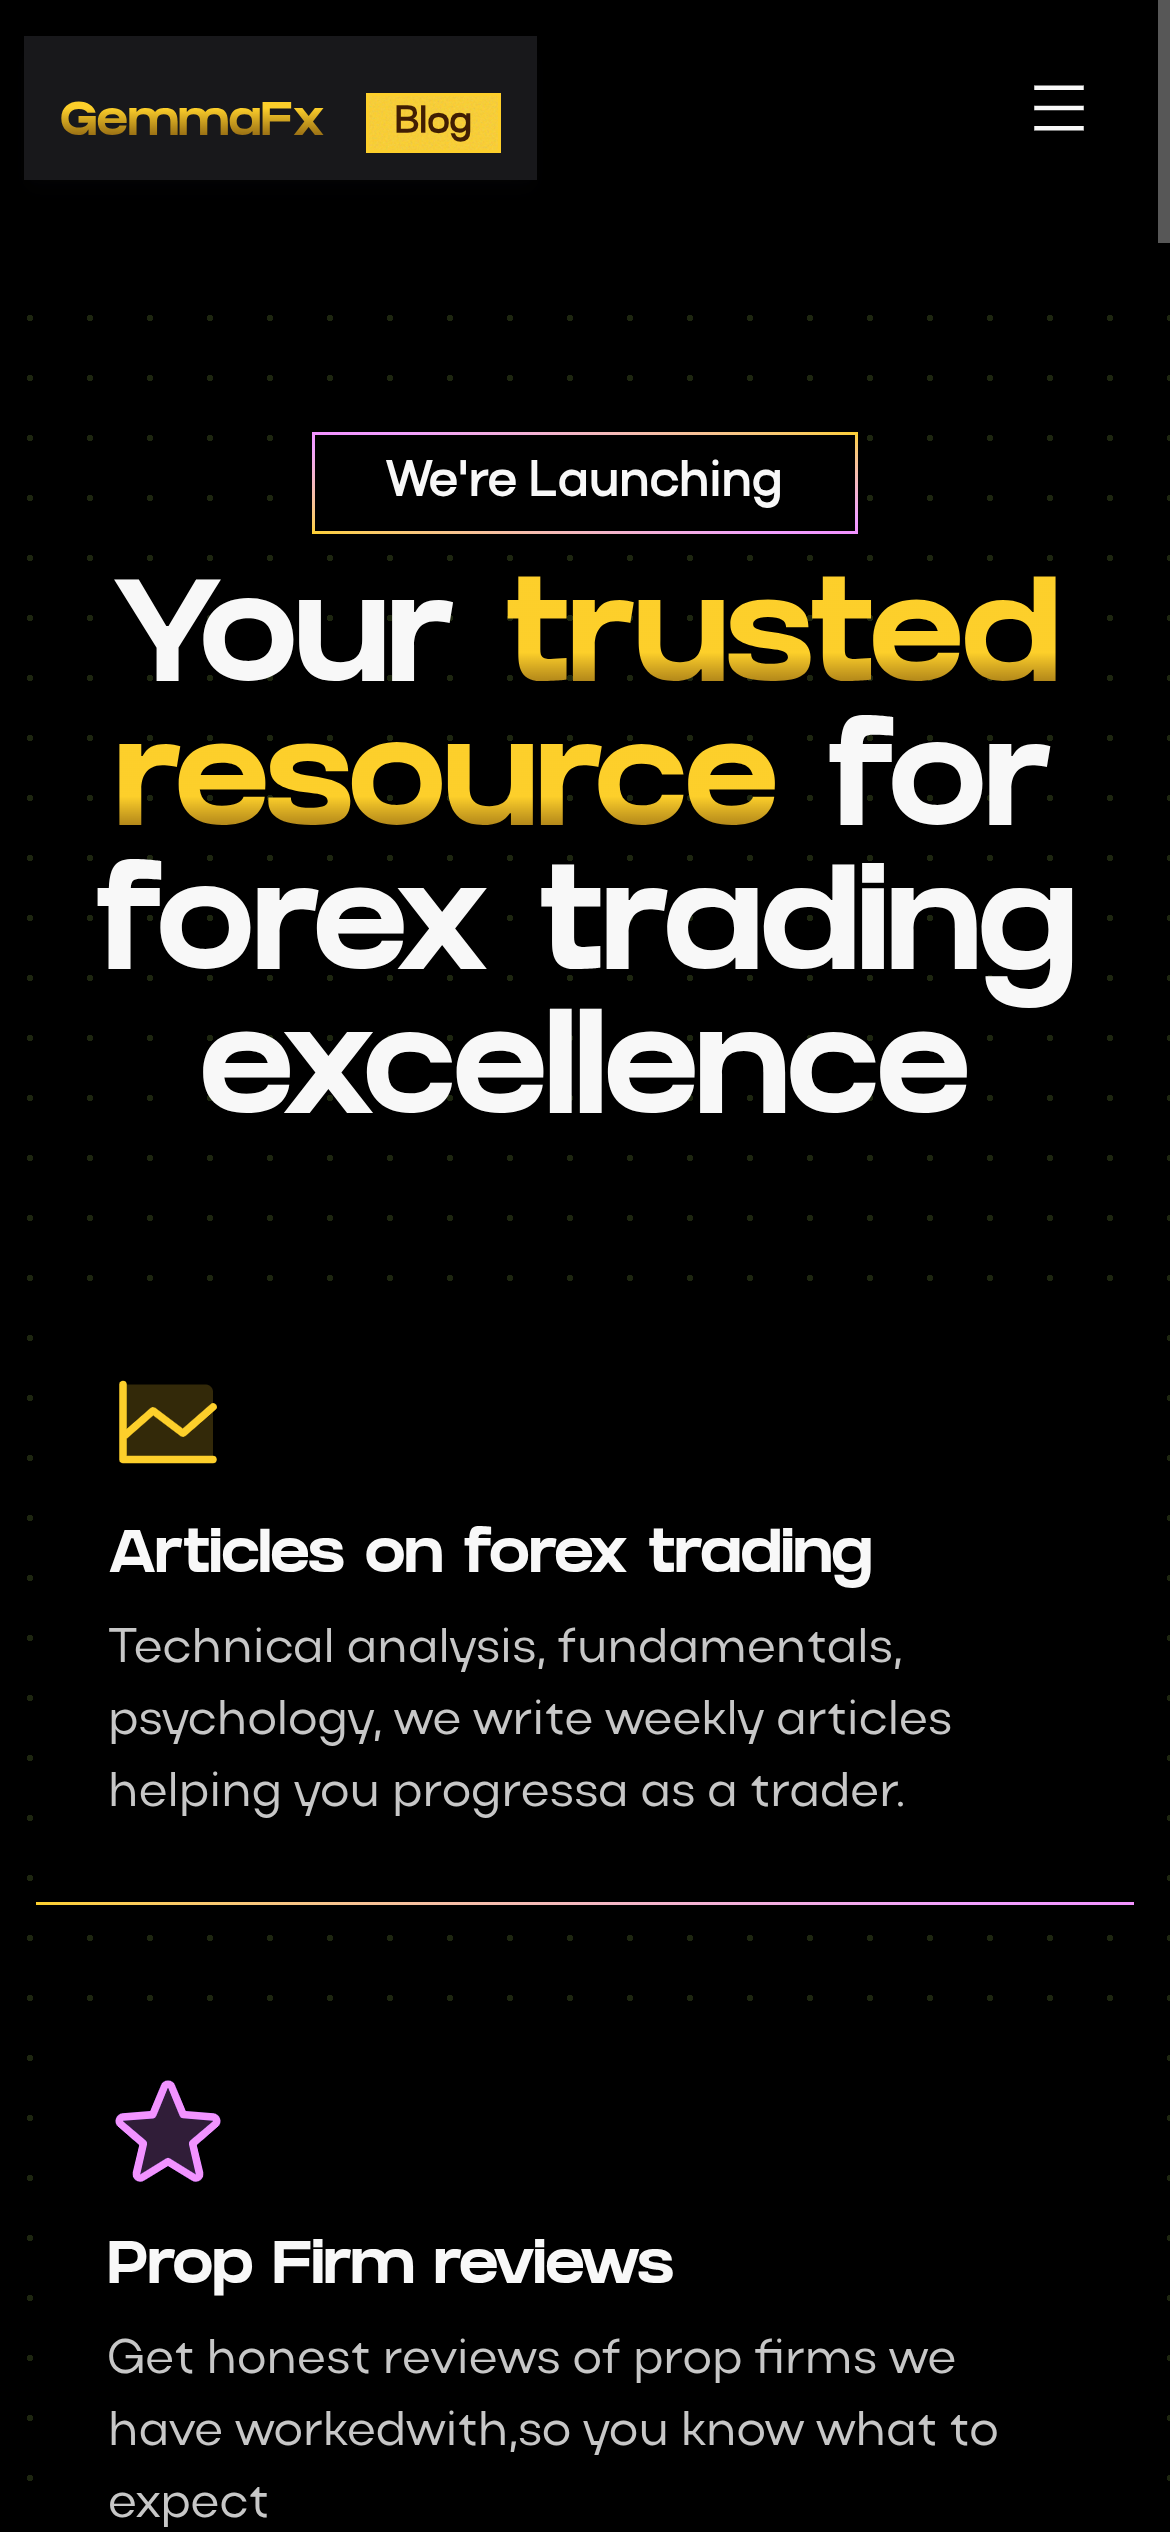
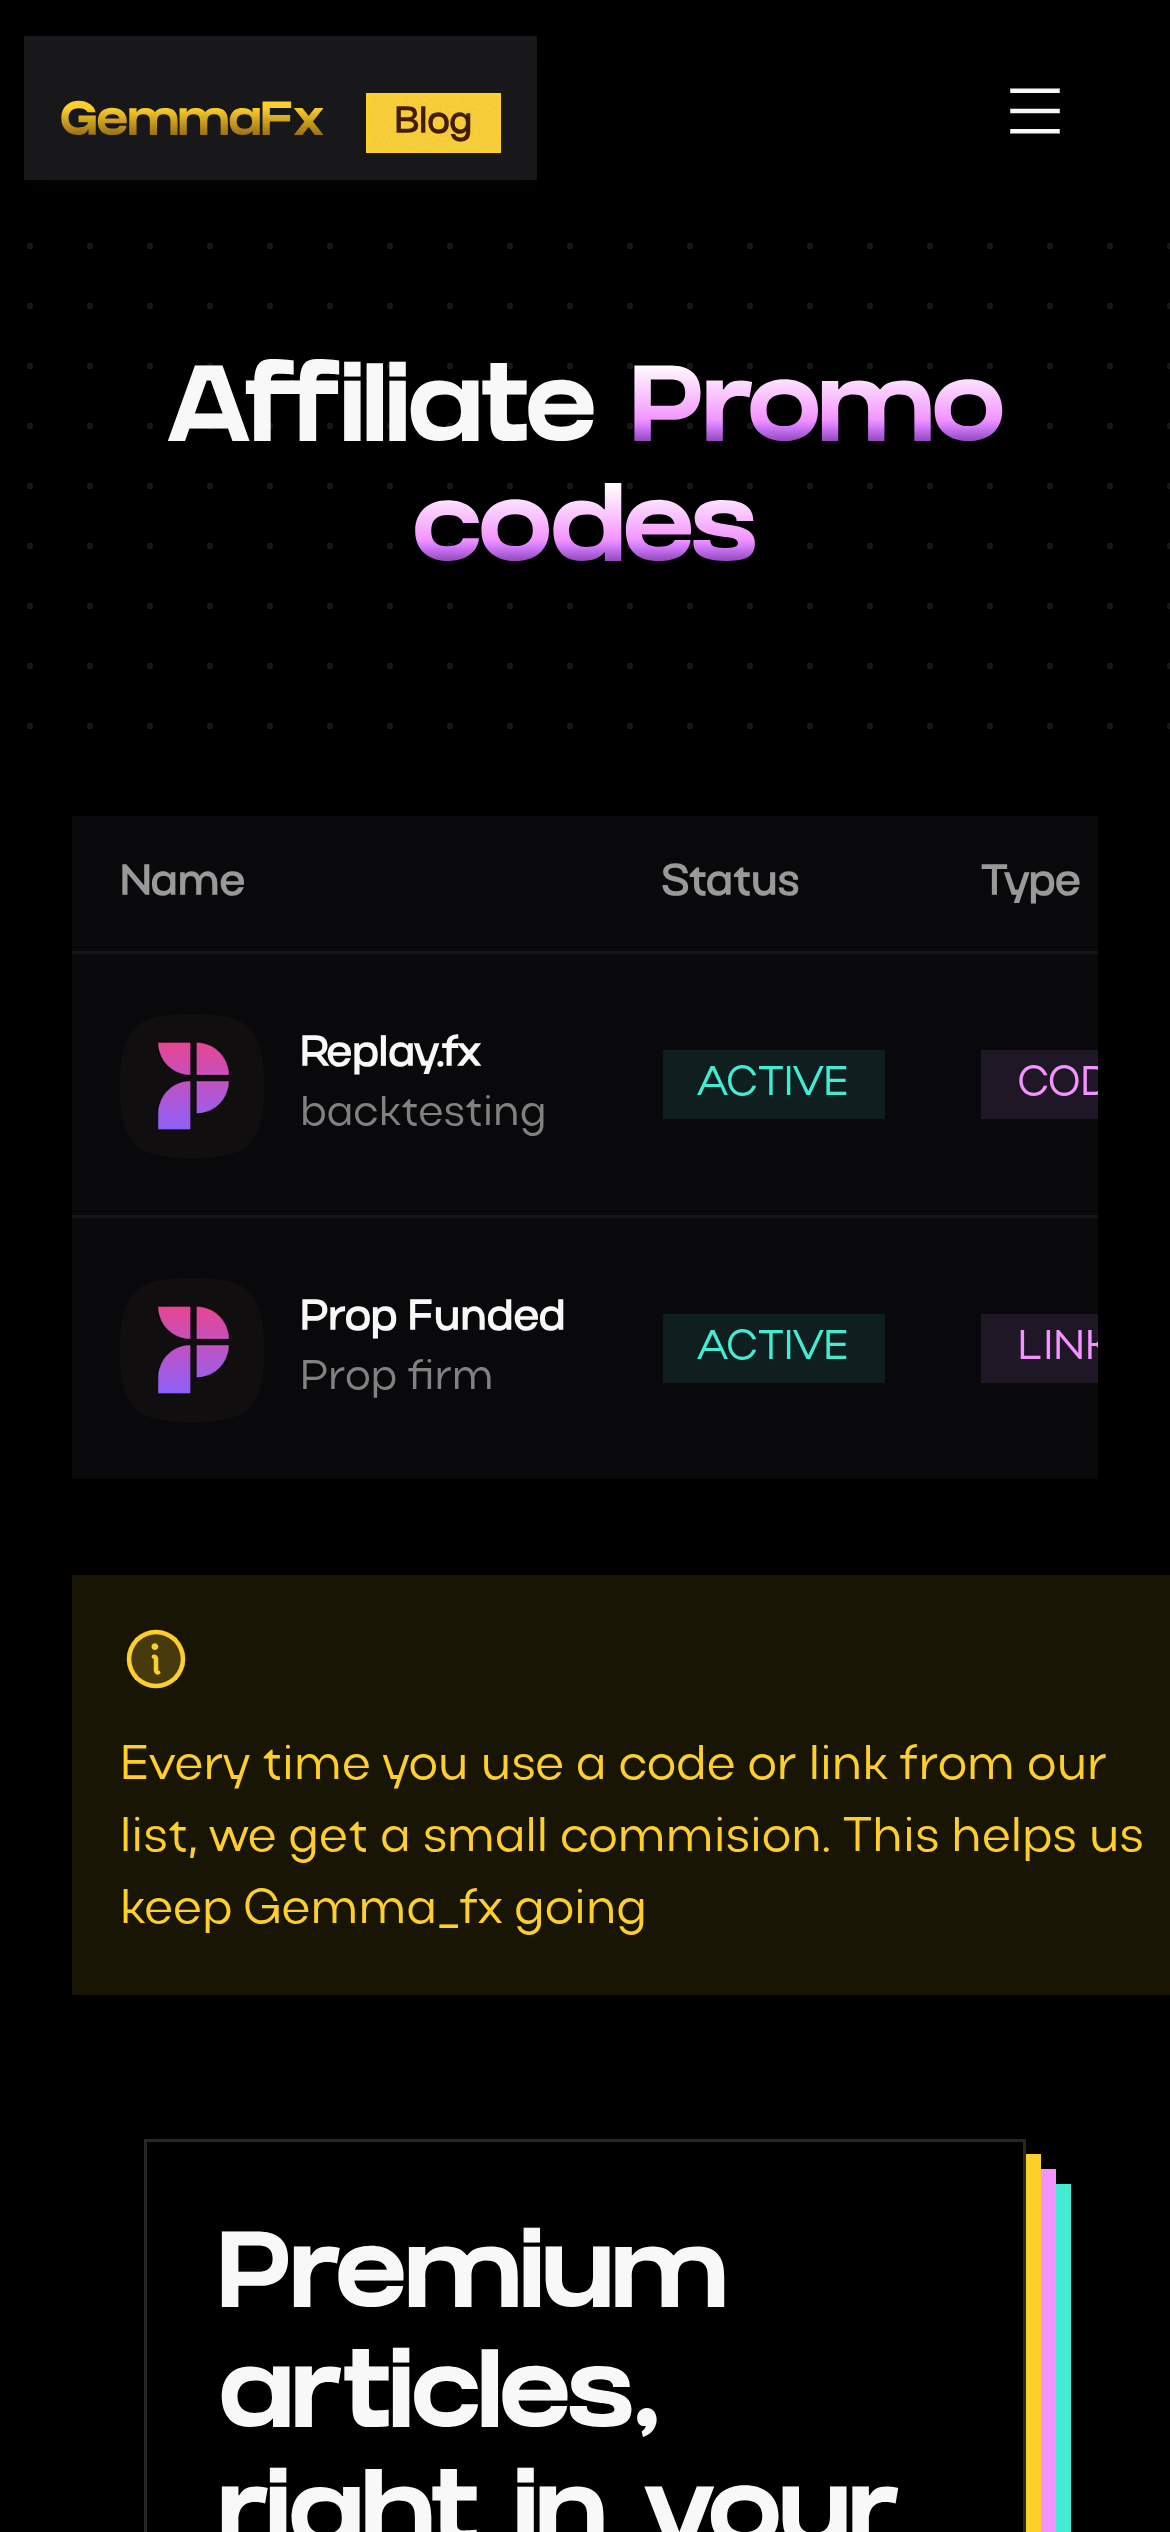
style: 💄 Enhance UI with CSS refactoring in app.css, update grid layout in ArticleList, and improve button styles in Articles page. Add new promo section with a table layout in promo.vue for affiliate codes.

diff --git a/pages/promo.vue b/pages/promo.vue
@@ -1,9 +1,162 @@
+    <script lang="ts" setup>
+    import img from '../assets/images/pf.png'
+</script>
 <template>
-    <div>
+    <div class="">
+        <div class="inset-0 bg-radial-pattern px-6">
+            <div class="container mx-auto py-12 md:pt-24">
 
+                <h1 class="font-extrabold text-center text-4xl lg:text-6xl font-display ">
+                    Affiliate <span
+                        class="bg-clip-text bg-gradient-to-t from-secondary-content via-secondary  to-accent text-transparent ">
+                        Promo codes</span>
+                </h1>
+            </div>
+        </div>
+
+        <div>
+            <div class="px-6 container mx-auto !pt-6 md:pt-12">
+
+                <div class="overflow-x-auto !w-full ">
+                    <table class="table w-max min-w-full p-6 bg-base-200">
+                        <!-- head -->
+                        <thead>
+                            <tr>
+                                <!-- <th>
+                                <label>
+                                    <input type="checkbox" class="checkbox" />
+                                </label>
+                            </th> -->
+                                <th>Name</th>
+                                <th>Status</th>
+                                <th>Type</th>
+
+                                <th>Perks</th>
+                                <th>Activated on</th>
+                                <th>Code</th>
+                                <th>Link</th>
+                            </tr>
+                        </thead>
+                        <tbody>
+
+                            <tr>
+
+                                <td>
+                                    <div class="flex items-center gap-3">
+                                        <div class="avatar">
+                                            <div class="mask mask-squircle h-12 w-12">
+                                                <img :src="img" alt="Avatar Tailwind CSS Component" />
+                                            </div>
+                                        </div>
+                                        <div>
+                                            <div class="font-bold">Replay.fx</div>
+                                            <div class="text-sm opacity-50">backtesting</div>
+                                        </div>
+                                    </div>
+                                </td>
+                                <td>
+                                    <span class="font-medium py-1 px-3 text-sm bg-success/10 text-success uppercase">
+                                        Active
+                                    </span>
+                                </td>
+                                <td>
+                                    <span
+                                        class="font-medium py-1 px-3 text-sm bg-secondary/10 text-secondary uppercase">
+                                        Code
+                                    </span>
+                                </td>
+                                <td>
+                                    <div class="max-w-xs">
+                                        Lorem ipsum dolor sit amet consectetur adipisicing elit. Eligendi fugit
+                                        doloremque beatae.
+                                    </div>
+                                </td>
+                                <td>
+                                    <div class="max-w-xs">
+                                        12/03/2025
+                                    </div>
+                                </td>
+                                <td>
+                                    <div class="">
+                                        <span
+                                            class="font-medium py-1 px-3 text-sm bg-primary/10 text-primary uppercase flex items-center-safe gap-x-2 w-max">
+                                            GEM20
+                                            <Icon name="ph:copy-simple-duotone" />
+                                        </span>
+                                    </div>
+                                </td>
+                                <th>
+                                    <button class=" text-primary  link flex items-center gap-x-2">Purchase via link
+                                        <Icon name="ph:share-duotone" size="18" />
+                                    </button>
+                                </th>
+                            </tr>
+                            <tr>
+
+                                <td>
+                                    <div class="flex items-center gap-3">
+                                        <div class="avatar">
+                                            <div class="mask mask-squircle h-12 w-12">
+                                                <img :src="img" alt="Avatar Tailwind CSS Component" />
+                                            </div>
+                                        </div>
+                                        <div>
+                                            <div class="font-bold">Prop Funded</div>
+                                            <div class="text-sm opacity-50">Prop firm</div>
+                                        </div>
+                                    </div>
+                                </td>
+                                <td>
+                                    <span class="font-medium py-1 px-3 text-sm bg-success/10 text-success uppercase">
+                                        Active
+                                    </span>
+                                </td>
+                                <td>
+                                    <span
+                                        class="font-medium py-1 px-3 text-sm bg-secondary/10 text-secondary uppercase">
+                                        Link
+                                    </span>
+                                </td>
+                                <td>
+                                    <div class="max-w-xs">
+                                        Lorem ipsum dolor sit amet consectetur adipisicing elit. Eligendi fugit
+                                        doloremque beatae.
+                                    </div>
+                                </td>
+                                <td>
+                                    <div class="max-w-xs">
+                                        12/03/2025
+                                    </div>
+                                </td>
+                                <td>
+                                    <div class="">
+                                        N/A
+                                    </div>
+                                </td>
+                                <th>
+                                    <button class=" text-primary  link flex items-center gap-x-2">Purchase via link
+                                        <Icon name="ph:share-duotone" size="18" />
+                                    </button>
+                                </th>
+                            </tr>
+
+
+                        </tbody>
+
+
+                    </table>
+                </div>
+                <div class="mt-8">
+                    <div class="font-medium p-4 max-w-sm  bg-primary/10 text-primary w-max mx-auto">
+                        <Icon name="ph:info-duotone" size="24" />
+                        <p class="mt-3">Every time you use a code or link from our list, we get a small commision. This
+                            helps us keep Gemma_fx going</p>
+                    </div>
+                </div>
+                <div class="my-12 md:mt-24 xl:mt-48">
+                    <NewsletterSection />
+                </div>
+            </div>
+        </div>
     </div>
 </template>
-
-<script lang="ts" setup>
-
-</script>

diff --git a/assets/css/app.css b/assets/css/app.css
@@ -9,7 +9,7 @@
 /* Define your branding fonts here*/
 @theme {
     --font-mono: "cnr";
-        --font-display: "Grifter";
+    --font-display: "Grifter";
         --font-body: "Actay", "Trap";
         --font-sans: "Actay", "Trap";
         --font-acro: "Hanson";
@@ -21,33 +21,61 @@
     prefersdark: true;
     color-scheme: "dark";
     --color-base-100: oklch(0% 0 0);
-        --color-base-200: oklch(14% 0.005 285.823);
-            --color-base-300: oklch(21% 0.006 285.885);
-            --color-base-content: oklch(98% 0 0);
-            --color-primary: oklch(87% 0.169 91.605);
-            --color-primary-content: oklch(28% 0.066 53.813);
-            --color-secondary: oklch(81% 0.203 315.504);
-            --color-secondary-content: oklch(10% 0.149 302.717);
-            --color-accent: oklch(100% 0 0);
-            --color-accent-content: oklch(2% 0.09 281.288);
-            --color-neutral: oklch(87% 0.006 286.286);
-            --color-neutral-content: oklch(14% 0.005 285.823);
-            --color-info: oklch(71% 0.143 215.221);
-            --color-info-content: oklch(98% 0.019 200.873);
-            --color-success: oklch(85% 0.138 181.071);
-            --color-success-content: oklch(27% 0.046 192.524);
-            --color-warning: oklch(83% 0.128 66.29);
-            --color-warning-content: oklch(26% 0.079 36.259);
-            --color-error: oklch(81% 0.117 11.638);
-            --color-error-content: oklch(27% 0.105 12.094);
+    --color-base-200: oklch(14% 0.005 285.823);
+        --color-base-300: oklch(21% 0.006 285.885);
+        --color-base-content: oklch(98% 0 0);
+        --color-primary: oklch(87% 0.169 91.605);
+        --color-primary-content: oklch(28% 0.066 53.813);
+        --color-secondary: oklch(81% 0.203 315.504);
+        --color-secondary-content: oklch(10% 0.149 302.717);
+        --color-accent: oklch(100% 0 0);
+        --color-accent-content: oklch(2% 0.09 281.288);
+        --color-neutral: oklch(87% 0.006 286.286);
+        --color-neutral-content: oklch(14% 0.005 285.823);
+        --color-info: oklch(71% 0.143 215.221);
+        --color-info-content: oklch(98% 0.019 200.873);
+        --color-success: oklch(85% 0.138 181.071);
+        --color-success-content: oklch(27% 0.046 192.524);
+        --color-warning: oklch(83% 0.128 66.29);
+        --color-warning-content: oklch(26% 0.079 36.259);
+        --color-error: oklch(81% 0.117 11.638);
+        --color-error-content: oklch(27% 0.105 12.094);
         --radius-selector: 0rem;
         --radius-field: 0rem;
         --radius-box: 0rem;
     --size-selector: 0.25rem;
     --size-field: 0.25rem;
     --border: 1px;
-        --depth: 1;
-            --noise: 1;
-        }
+    --depth: 1;
+        --noise: 1;
+    }
 
-                                @custom-variant hover (&:hover);
+@custom-variant hover (&:hover);
+.btn {
+    @apply cursor-pointer transition-all px-6 py-2 border-b-[4px] hover:brightness-110 hover:-translate-y-[1px] hover:border-b-[6px] active:border-b-[2px] active:brightness-90 active:translate-y-[2px]
+}
+
+.btn-ghost, .btn-soft {
+    @apply hover:translate-y-[0px] border-b-[0px] hover:border-b-[0px] active:border-b-[0px] active:brightness-90 active:translate-y-[0px]
+}
+
+.btn-alt {
+    /* From Uiverse.io by adamgiebl */
+
+
+    border: 3px solid var(--color-base-content) !important;
+
+    box-shadow: 0.1em 0.1em !important;
+    cursor: pointer;
+
+
+    &:hover {
+        transform: translate(-0.05em, -0.05em) !important;
+        box-shadow: 0.15em 0.15em !important;
+    }
+
+    &:active {
+        transform: translate(0.05em, 0.05em) !important;
+        box-shadow: 0.05em 0.05em !important;
+    }
+}

diff --git a/components/CategoryBar.vue b/components/CategoryBar.vue
@@ -21,7 +21,7 @@
                 </div>
                 <p class="hidden md:block text-lg  font-medium">Featured</p>
             </button>
-            <button @click="() => changeTabs('analysis')" :class="{
+            <!-- <button @click="() => changeTabs('analysis')" :class="{
     '!bg-accent !text-accent-content': tab === 'analysis'
 }" class=" flex hover:bg-accent/80 cursor-pointer w-full justify-center hover:text-accent-content font-semibold p-4 transition items-center
                     gap-x-2">
@@ -30,7 +30,7 @@
                     <Icon name="ph:chart-line-up-duotone" />
                 </div>
                 <p class="hidden md:block text-lg  font-medium"> Analysis</p>
-            </button>
+            </button> -->
             <button @click="() => changeTabs('rookies')" :class="{
     '!bg-accent !text-accent-content': tab === 'rookies'
 }" class="flex hover:bg-accent/80 cursor-pointer w-full justify-center hover:text-accent-content font-semibold  p-4 transition  items-center-safe gap-x-2">

diff --git a/pages/articles.vue b/pages/articles.vue
@@ -173,7 +173,7 @@
                         </ul>
                     </div>
                     <button ref="tags-container" :disabled="taglistIsOpen" @click="() => openTagList()"
-                        class="btn disabled:!cursor-pointer  max-sm:btn-sm"
+                        class="btn btn-soft disabled:!cursor-pointer  max-sm:btn-sm"
                         :class="{ '!btn-neutral !btn-outline hover:!bg-transparent active:!bg-transparent focus:!bg-transparent !text-neutral !shadow-none': taglistIsOpen, '!btn-ghost': !taglistIsOpen }">
                         Tags
                         <Icon name="ph:tag-duotone" size="18" />

diff --git a/pages/index.vue b/pages/index.vue
@@ -26,8 +26,8 @@ const activeCategory = ref('featured')
             <div class="">
                 <!-- Featured posts -->
                 <SectionsFeatured v-if="activeCategory === 'featured'" />
-                <!--Market analysis -->
-                <SectionsAnalysis v-if="activeCategory === 'analysis'" />
+                <!-- Market analysis
+                <SectionsAnalysis v-if="activeCategory === 'analysis'" /> -->
                 <!--Rookies -->
                 <SectionsRookies v-if="activeCategory === 'rookies'" />
                 <!--Software -->

diff --git a/components/ArticleList.vue b/components/ArticleList.vue
@@ -3,7 +3,7 @@
 </script>
 <template>
     <div>
-        <div class="grid grid-cols-1 md:grid-cols-2 xl:grid-cols-3 place-items-center gap-4">
+        <div class="grid grid-cols-1 md:grid-cols-3 xl:grid-cols-4 place-items-center gap-4">
             <BlogCard />
             <BlogCard />
             <BlogCard />
